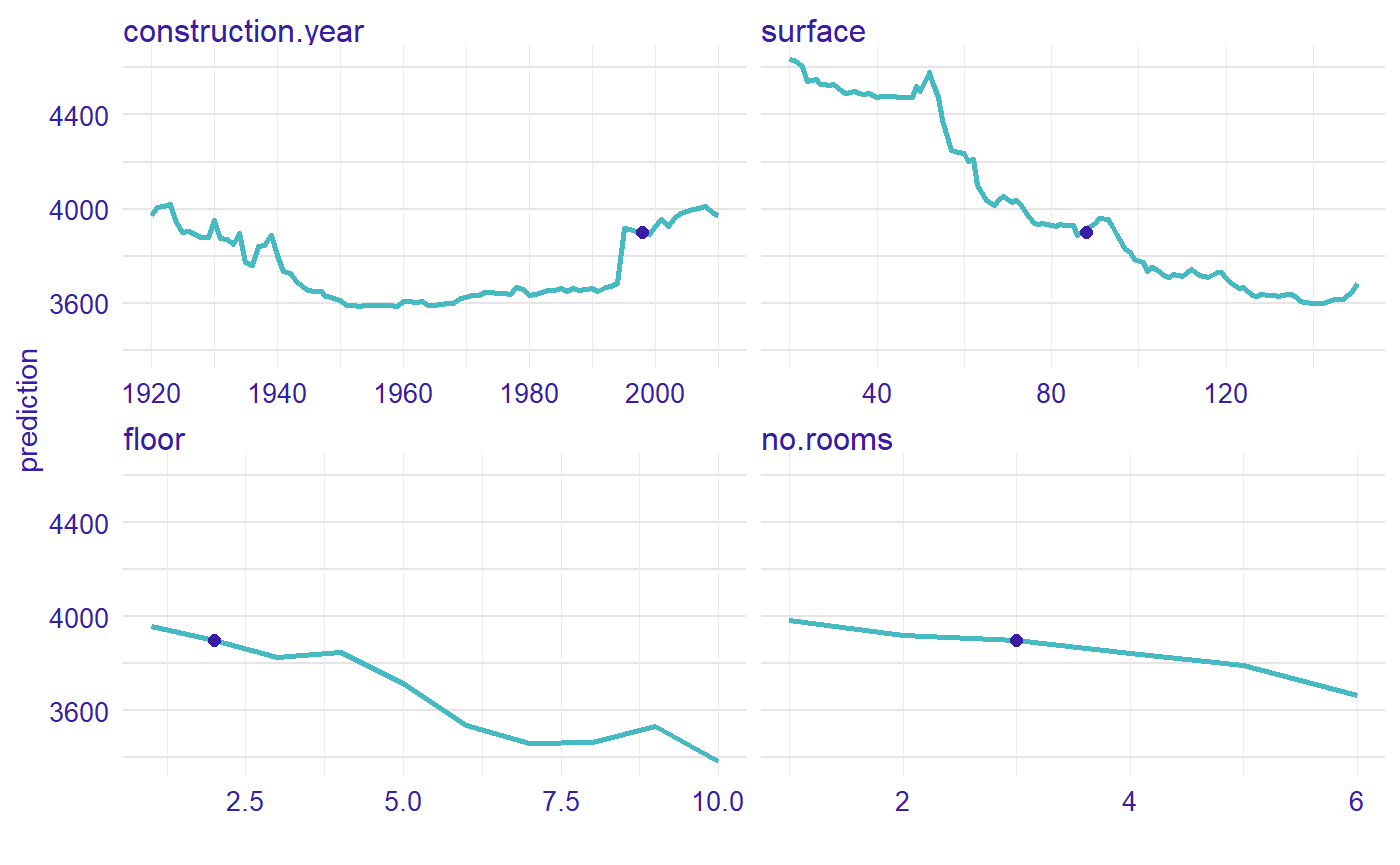
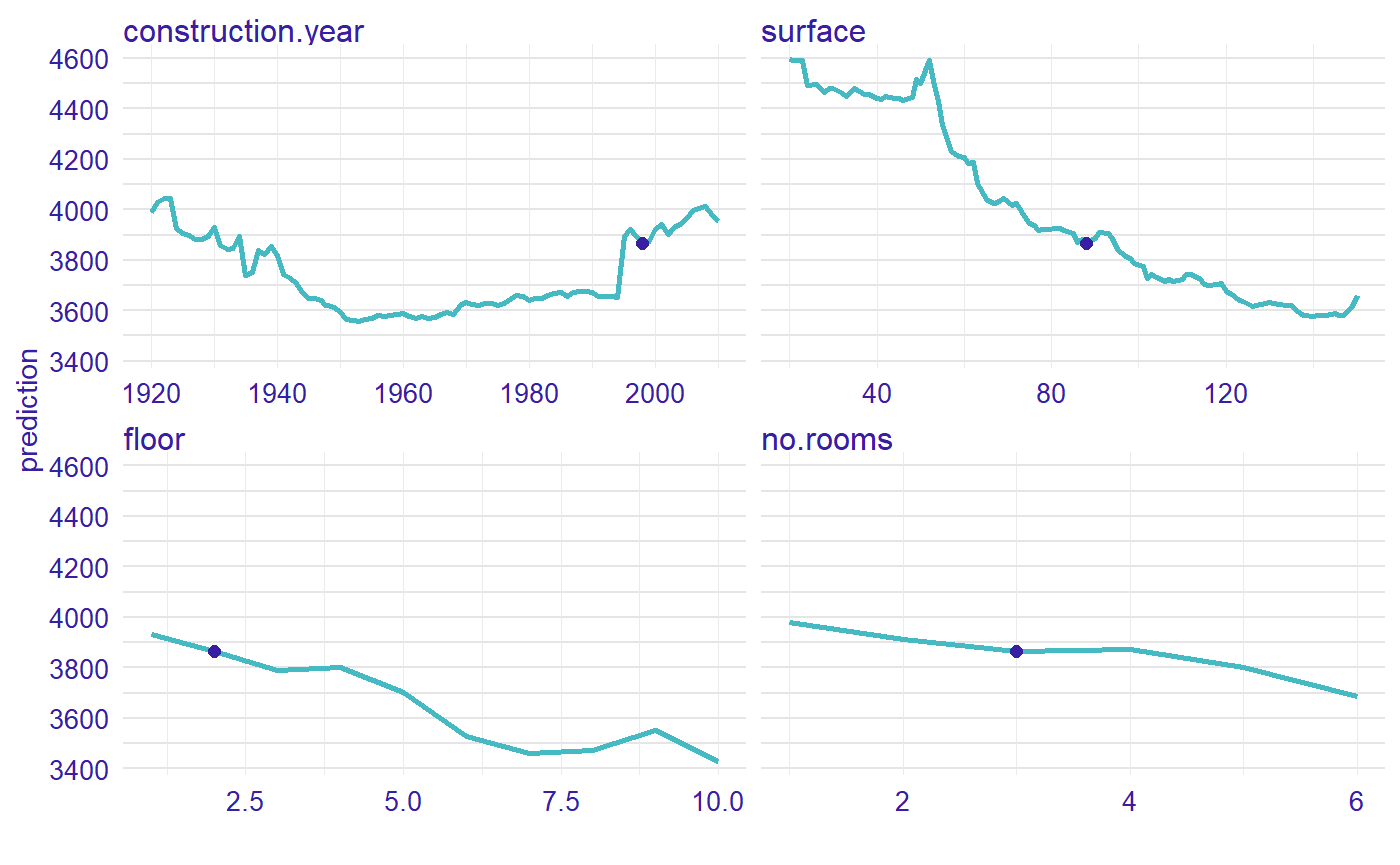
small fixes

diff --git a/docs/articles/vignette_apartments.html b/docs/articles/vignette_apartments.html
@@ -134,9 +134,9 @@
 <a class="sourceLine" id="cb2-9" title="9"><span class="co">#&gt;   -&gt; target variable   :  9000  values </span></a>
 <a class="sourceLine" id="cb2-10" title="10"><span class="co">#&gt;   -&gt; model_info        :  package randomForest , ver. 4.6.14 , task regression ( [33m default [39m ) </span></a>
 <a class="sourceLine" id="cb2-11" title="11"><span class="co">#&gt;   -&gt; predict function  :  yhat.randomForest  will be used ( [33m default [39m )</span></a>
-<a class="sourceLine" id="cb2-12" title="12"><span class="co">#&gt;   -&gt; predicted values  :  numerical, min =  2111.225 , mean =  3513.198 , max =  5343.546  </span></a>
+<a class="sourceLine" id="cb2-12" title="12"><span class="co">#&gt;   -&gt; predicted values  :  numerical, min =  2122.262 , mean =  3515.514 , max =  5359.679  </span></a>
 <a class="sourceLine" id="cb2-13" title="13"><span class="co">#&gt;   -&gt; residual function :  difference between y and yhat ( [33m default [39m )</span></a>
-<a class="sourceLine" id="cb2-14" title="14"><span class="co">#&gt;   -&gt; residuals         :  numerical, min =  -1289.272 , mean =  -1.674182 , max =  2116.496  </span></a>
+<a class="sourceLine" id="cb2-14" title="14"><span class="co">#&gt;   -&gt; residuals         :  numerical, min =  -1225.981 , mean =  -3.990243 , max =  2110.711  </span></a>
 <a class="sourceLine" id="cb2-15" title="15"><span class="co">#&gt;  [32m A new explainer has been created! [39m</span></a></code></pre></div>
 </div>
 <div id="new-observation" class="section level3">
@@ -146,7 +146,7 @@
 <div class="sourceCode" id="cb3"><pre class="sourceCode r"><code class="sourceCode r"><a class="sourceLine" id="cb3-1" title="1">new_apartment &lt;-<span class="st"> </span><span class="kw"><a href="https://rdrr.io/r/base/data.frame.html">data.frame</a></span>(<span class="dt">construction.year =</span> <span class="dv">1998</span>, <span class="dt">surface =</span> <span class="dv">88</span>, <span class="dt">floor =</span> 2L, <span class="dt">no.rooms =</span> <span class="dv">3</span>)</a>
 <a class="sourceLine" id="cb3-2" title="2"><span class="kw"><a href="https://rdrr.io/r/stats/predict.html">predict</a></span>(apartments_rf_model, new_apartment)</a>
 <a class="sourceLine" id="cb3-3" title="3"><span class="co">#&gt;        1 </span></a>
-<a class="sourceLine" id="cb3-4" title="4"><span class="co">#&gt; 3898.073</span></a></code></pre></div>
+<a class="sourceLine" id="cb3-4" title="4"><span class="co">#&gt; 3865.829</span></a></code></pre></div>
 </div>
 <div id="calculate-ceteris-paribus-profiles" class="section level3">
 <h3 class="hasAnchor">
